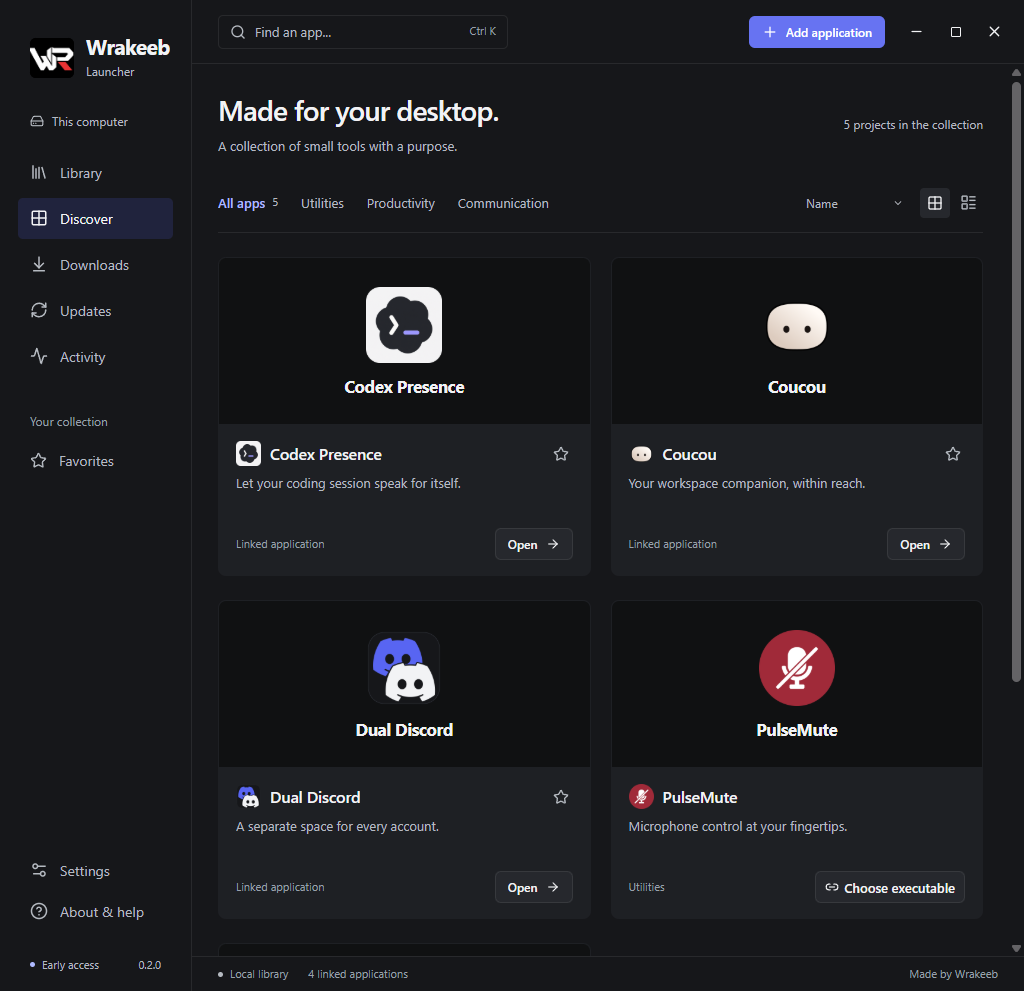
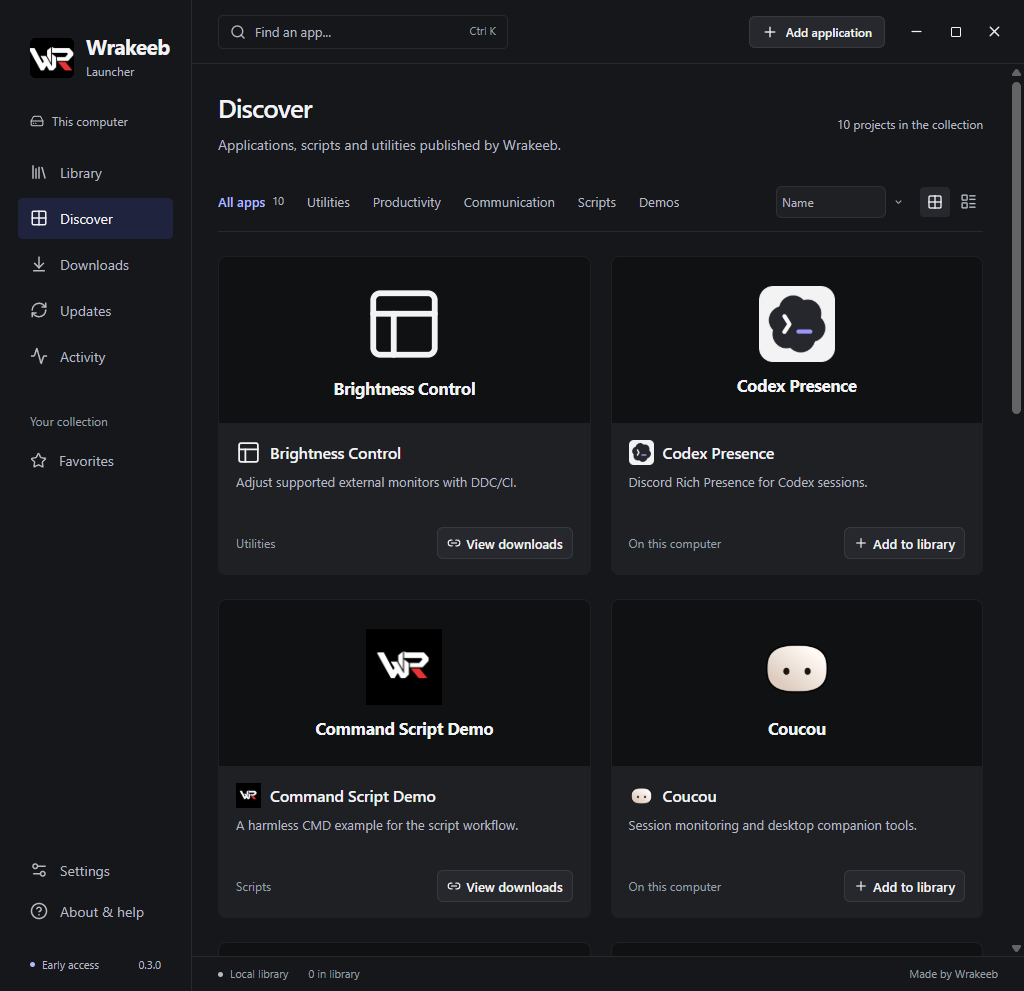
Record final interface captures and test authentic previous-release upgrade

diff --git a/README.md b/README.md
@@ -70,7 +70,7 @@ npm run test:native
 npm run package:installer
 ```
 
-For browser tests, start npm run preview, then npm run test:ui. The browser preview cannot execute Windows programs. Native smoke and live package tests use isolated copies under runtime, with visible windows on a second monitor. The debug package test needs the preview server; production builds embed the UI. A localhost debugging endpoint is enabled only by test-launch environment variables.
+For browser tests, start npm run preview, then npm run test:ui. The browser preview cannot execute Windows programs. Native smoke and live package tests use isolated copies under runtime, with visible windows on a second monitor. The debug package test needs the preview server; production builds embed the UI. For the live launcher upgrade test, supply an authentic earlier release using WRAKEEB_PREVIOUS_BINARY. A localhost debugging endpoint is enabled only by test-launch environment variables.
 
 See [status](docs/STATUS.md), [changelog](docs/CHANGELOG.md), [catalog publishing guide](docs/CATALOG-PUBLISHING.md), [image provenance](docs/PROJECT-IMAGES.md), [research](docs/LAUNCHER-REFERENCES.md), and the [roadmap](docs/ROADMAP.md).
 
